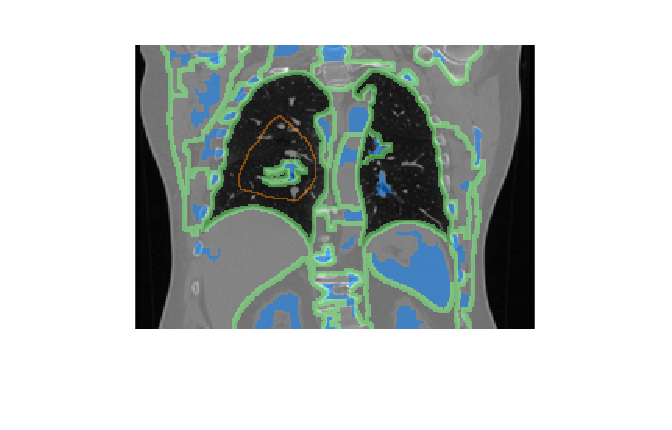
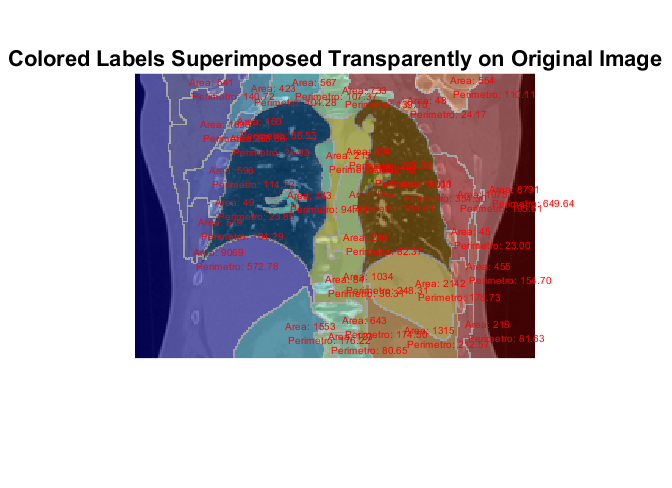
added area marker controlled

diff --git a/MarkerControlledSegmentation.m b/MarkerControlledSegmentation.m
@@ -89,20 +89,27 @@ for j = 1 : size(examplesFolders,2)
     imshow(I4);
     
     % Colora il tumore (etichette assegnate in base ai marcatori)
-    %colored_img = label2rgb(labels);
-     
+    colored_img = label2rgb(L);
+    bgm_filled = imfill(bgm, 'holes');
+    
+    bgm_filled_AND_fgm4 = bgm_filled & fgm4;
+
+    
     imshow(inputImage)
     hold on
-    overlaySeg = imshow(fgm4);
+    overlaySeg = imshow(bgm_filled_AND_fgm4);
     overlaySeg.AlphaData = 0.5;
     title("Colored Labels Superimposed Transparently on Original Image");
     
-    [label_matrix, num_labels]  = bwlabel(segmentazione);
-    regionProps = regionprops(label_matrix, 'Centroid', 'Area', 'Perimeter');
+    [label_matrix, num_labels]  = bwlabel(bgm_filled_AND_fgm4);
+    regionProps = regionprops(label_matrix, 'Centroid');
     
     for i = 1:num_labels
-        text(regionProps(i).Centroid(1), regionProps(i).Centroid(2), sprintf('Area: %d \n Perimetro: %.2f', regionProps(i).Area, regionProps(i).Perimeter), 'Color', 'red','FontSize', 10);
+        region = bwselect(L, regionProps(i).Centroid(1), regionProps(i).Centroid(2));
+        regionProps = regionprops(region, 'Area', 'Perimeter', 'Centroid');
+        text(regionProps.Centroid(1), regionProps.Centroid(2), sprintf('Area: %d \n Perimetro: %.2f', regionProps.Area, regionProps.Perimeter), 'Color', 'red','FontSize', 15);
     end
+
     hold off;
     saveas(gcf, char(fullfile(folderToSave, 'segmentazione_marker_controlled.png')));
 end
